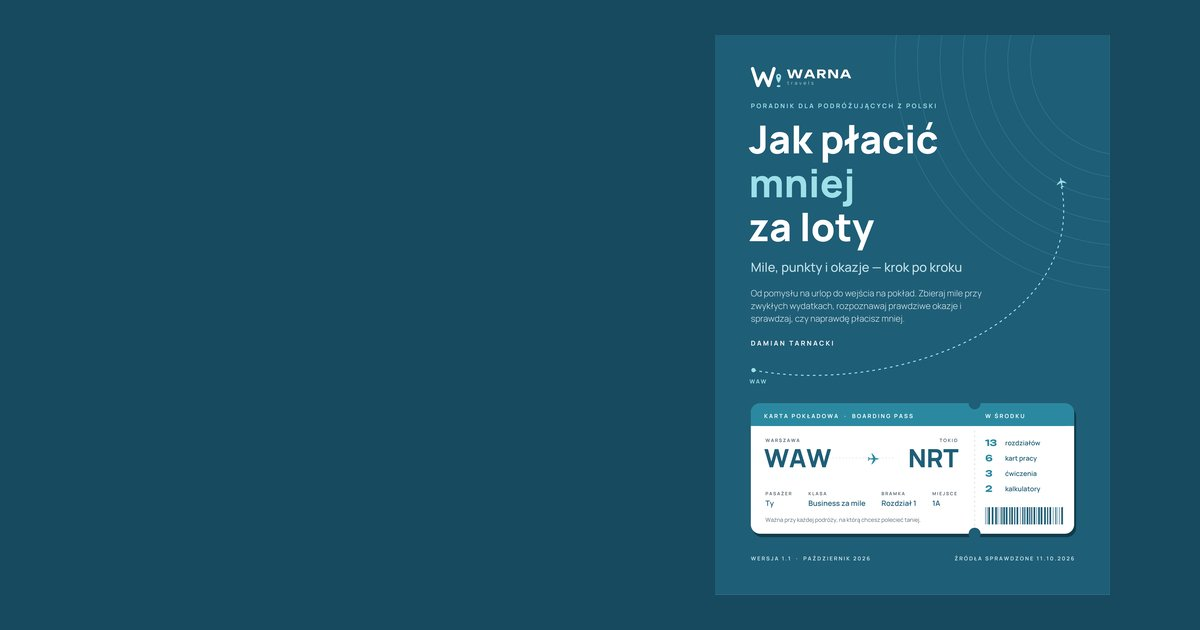
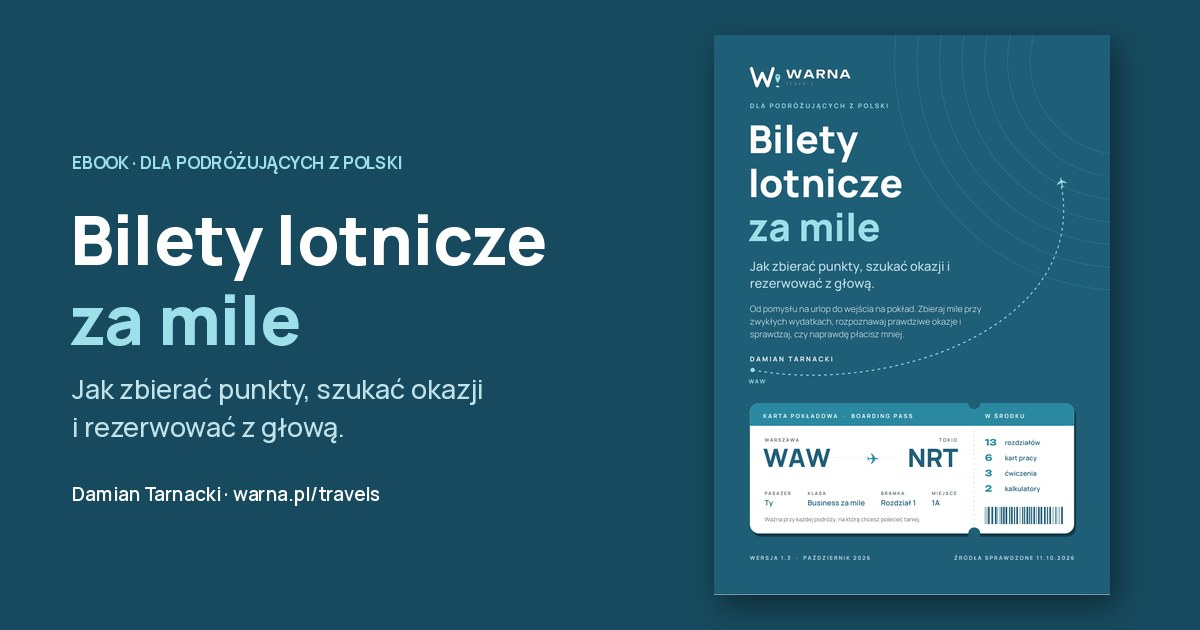
Nowy tytuł ebooka: Bilety lotnicze za mile
Claude-Session: https://claude.ai/code/session_019VQgXPR5hEQKZbpgQv1d3L

diff --git a/index.html b/index.html
@@ -50,7 +50,7 @@
     </article>
     <article class="line travels">
       <div class="lockup"><svg xmlns="http://www.w3.org/2000/svg" viewBox="0 0 441.74 100.00" role="img" aria-label="WARNA travels"><g transform="translate(0.00 0.00) scale(1.0417) translate(-2 -2)"><rect x="2" y="2" width="96" height="96" rx="26" fill="#1F5F78"/><path d="M16 28 L30 72 L44 40 L58 72 L72 28" fill="none" stroke="#FFFFFF" stroke-width="9" stroke-linecap="round" stroke-linejoin="round"/><path d="M84 65.5 C81.62 63.50 77.20 54.66 77.20 48.20 A6.8 6.8 0 1 1 90.80 48.20 C90.80 54.66 86.38 63.50 84 65.5Z" fill="#9EE0EA"/><circle cx="84" cy="48.20" r="2.45" fill="#1F5F78"/><ellipse cx="84" cy="73.6" rx="5.2" ry="2.9" fill="#9EE0EA"/></g><path d="M59.19 -5.16H55.38L66.35 -44.00H79.20L65.82 0.00H50.16L37.43 -37.55H42.42L29.63 0.00H14.02L0.59 -44.00H13.49L24.46 -5.16L20.71 -5.22L33.50 -44.00H46.35Z M97.15 -8.45V-18.25H127.48V-8.45ZM120.56 -44.00 140.57 0.00H127.60L110.82 -38.84H114.34L97.50 0.00H84.54L104.54 -44.00Z M157.81 -24.76H173.83Q176.76 -24.76 178.41 -26.11Q180.05 -27.46 180.05 -29.86Q180.05 -32.33 178.41 -33.65Q176.76 -34.97 173.83 -34.97H156.11L161.57 -40.77V0.00H149.42V-44.00H175.53Q180.58 -44.00 184.33 -42.21Q188.09 -40.42 190.20 -37.28Q192.31 -34.14 192.31 -29.86Q192.31 -25.70 190.20 -22.53Q188.09 -19.36 184.33 -17.60Q180.58 -15.84 175.53 -15.84H157.81ZM164.38 -20.59H178.05L193.83 0.00H179.75Z M244.76 -8.51 241.00 -7.74V-44.00H252.79V0.00H237.48L212.08 -36.20L215.78 -36.96V0.00H203.98V-44.00H219.71Z M274.27 -8.45V-18.25H304.60V-8.45ZM297.67 -44.00 317.68 0.00H304.71L287.94 -38.84H291.46L274.62 0.00H261.65L281.66 -44.00Z" transform="translate(124.00 56.31)" fill="currentColor"/><path d="M9.47 0.00Q8.20 0.25 6.98 0.21Q5.75 0.18 4.79 -0.26Q3.83 -0.70 3.34 -1.64Q2.90 -2.48 2.87 -3.34Q2.84 -4.21 2.84 -5.31V-17.25H5.46V-5.44Q5.46 -4.62 5.48 -4.03Q5.50 -3.43 5.74 -3.01Q6.19 -2.24 7.17 -2.13Q8.15 -2.02 9.47 -2.21ZM0.25 -11.40V-13.50H9.47V-11.40Z M20.31 0.00V-13.50H22.64V-10.23L22.31 -10.65Q22.56 -11.30 22.96 -11.84Q23.36 -12.39 23.89 -12.74Q24.40 -13.11 25.03 -13.32Q25.66 -13.53 26.33 -13.57Q26.99 -13.61 27.60 -13.50V-11.05Q26.94 -11.23 26.13 -11.15Q25.32 -11.08 24.65 -10.64Q24.01 -10.23 23.64 -9.64Q23.27 -9.05 23.11 -8.33Q22.95 -7.61 22.95 -6.81V0.00Z M41.79 0.38Q40.29 0.38 39.28 -0.18Q38.26 -0.74 37.74 -1.66Q37.23 -2.58 37.23 -3.68Q37.23 -4.70 37.59 -5.47Q37.95 -6.25 38.66 -6.79Q39.38 -7.34 40.41 -7.68Q41.31 -7.94 42.45 -8.14Q43.59 -8.34 44.84 -8.51Q46.10 -8.69 47.34 -8.86L46.39 -8.34Q46.41 -9.93 45.72 -10.69Q45.03 -11.46 43.34 -11.46Q42.28 -11.46 41.39 -10.97Q40.50 -10.48 40.15 -9.34L37.71 -10.09Q38.21 -11.83 39.62 -12.85Q41.03 -13.88 43.36 -13.88Q45.18 -13.88 46.52 -13.26Q47.86 -12.64 48.49 -11.30Q48.81 -10.64 48.89 -9.90Q48.96 -9.16 48.96 -8.31V0.00H46.65V-3.09L47.10 -2.69Q46.26 -1.14 44.97 -0.38Q43.68 0.38 41.79 0.38ZM42.25 -1.76Q43.36 -1.76 44.16 -2.16Q44.96 -2.55 45.45 -3.16Q45.94 -3.78 46.09 -4.44Q46.30 -5.04 46.33 -5.79Q46.36 -6.54 46.36 -6.99L47.21 -6.68Q45.98 -6.49 44.96 -6.34Q43.95 -6.19 43.13 -6.04Q42.31 -5.90 41.68 -5.70Q41.14 -5.51 40.72 -5.25Q40.30 -4.99 40.06 -4.61Q39.81 -4.24 39.81 -3.70Q39.81 -3.18 40.08 -2.73Q40.34 -2.29 40.88 -2.03Q41.41 -1.76 42.25 -1.76Z M63.86 0.00 58.96 -13.50H61.60L65.19 -3.28L68.78 -13.50H71.41L66.51 0.00Z M87.65 0.38Q85.64 0.38 84.12 -0.51Q82.60 -1.39 81.76 -2.97Q80.91 -4.55 80.91 -6.64Q80.91 -8.85 81.74 -10.48Q82.58 -12.10 84.06 -12.99Q85.55 -13.88 87.53 -13.88Q89.59 -13.88 91.04 -12.92Q92.49 -11.96 93.21 -10.20Q93.93 -8.44 93.78 -6.01H91.16V-6.96Q91.14 -9.31 90.27 -10.44Q89.40 -11.56 87.63 -11.56Q85.66 -11.56 84.68 -10.32Q83.69 -9.09 83.69 -6.75Q83.69 -4.53 84.68 -3.31Q85.66 -2.09 87.53 -2.09Q88.75 -2.09 89.64 -2.64Q90.54 -3.20 91.04 -4.24L93.60 -3.43Q92.81 -1.61 91.21 -0.62Q89.61 0.38 87.65 0.38ZM82.84 -6.01V-8.05H92.48V-6.01Z M104.83 0.00V-18.38H107.44V0.00Z M124.35 0.36Q121.89 0.36 120.34 -0.72Q118.79 -1.81 118.44 -3.79L121.11 -4.20Q121.36 -3.15 122.27 -2.54Q123.18 -1.94 124.53 -1.94Q125.75 -1.94 126.44 -2.44Q127.14 -2.94 127.14 -3.81Q127.14 -4.33 126.89 -4.64Q126.65 -4.96 125.88 -5.25Q125.10 -5.54 123.51 -5.96Q121.78 -6.41 120.76 -6.93Q119.74 -7.45 119.31 -8.14Q118.88 -8.84 118.88 -9.83Q118.88 -11.05 119.53 -11.96Q120.18 -12.88 121.36 -13.38Q122.54 -13.88 124.13 -13.88Q125.68 -13.88 126.89 -13.39Q128.10 -12.90 128.85 -12.01Q129.60 -11.11 129.75 -9.91L127.08 -9.43Q126.94 -10.40 126.16 -10.96Q125.39 -11.53 124.15 -11.58Q122.96 -11.62 122.23 -11.18Q121.49 -10.74 121.49 -9.96Q121.49 -9.51 121.77 -9.20Q122.05 -8.89 122.86 -8.60Q123.68 -8.31 125.26 -7.91Q126.96 -7.48 127.96 -6.94Q128.96 -6.41 129.39 -5.68Q129.83 -4.95 129.83 -3.91Q129.83 -1.91 128.37 -0.78Q126.91 0.36 124.35 0.36Z" transform="translate(126.00 87.69)" class="desc" fill="#1F5F78"/></svg></div>
-      <p>Weekendowe wyjazdy bez przepłacania. Wkrótce premiera ebooka „Jak płacić mniej za loty”. Jeden rozdział możesz dostać za darmo już teraz.</p>
+      <p>Weekendowe wyjazdy bez przepłacania. Wkrótce premiera ebooka „Bilety lotnicze za mile”. Jeden rozdział możesz dostać za darmo już teraz.</p>
       <ul class="links">
         <li><a class="cta" href="/travels/tansze-loty/"><span>Odbierz rozdział ebooka</span><svg viewBox="0 0 24 24" aria-hidden="true"><path d="M5 12h13m-5-6 6 6-6 6" fill="none" stroke="currentColor" stroke-width="2.2" stroke-linecap="round" stroke-linejoin="round"/></svg></a></li>
       </ul>

diff --git a/travels/tansze-loty/index.html b/travels/tansze-loty/index.html
@@ -3,11 +3,11 @@
 <head>
 <meta charset="utf-8">
 <meta name="viewport" content="width=device-width, initial-scale=1">
-<title>Jak płacić mniej za loty · ebook · WARNA travels</title>
+<title>Bilety lotnicze za mile · ebook · WARNA travels</title>
 <meta name="description" content="Ebook o kupowaniu lotów za mile i łapaniu okazji, dla podróżujących z Polski. 13 rozdziałów, karty pracy i kalkulator. Damian Tarnacki.">
 <meta property="og:type" content="product">
 <meta property="og:locale" content="pl_PL">
-<meta property="og:title" content="Jak płacić mniej za loty: mile, punkty i okazje">
+<meta property="og:title" content="Bilety lotnicze za mile: jak zbierać punkty, szukać okazji i rezerwować z głową">
 <meta property="og:description" content="Od pomysłu na urlop do wejścia na pokład. Ebook dla podróżujących z Polski.">
 <meta property="og:image" content="https://warna.pl/travels/tansze-loty/assets/og.jpg">
 <meta property="og:url" content="https://warna.pl/travels/tansze-loty/">
@@ -208,8 +208,8 @@ footer p{margin:0}
     <div class="hero-grid">
       <div>
         <span class="eyebrow">Ebook dla podróżujących z Polski</span>
-        <h1>Jak płacić <em>mniej</em> za loty</h1>
-        <p class="lead">Mile, punkty i okazje krok po kroku. Od pomysłu na urlop do wejścia na pokład: zbieraj mile przy zwykłych wydatkach, rozpoznawaj prawdziwe okazje i sprawdzaj, czy naprawdę płacisz mniej.</p>
+        <h1>Bilety lotnicze <em>za&nbsp;mile</em></h1>
+        <p class="lead">Jak zbierać punkty, szukać okazji i rezerwować z głową. Od pomysłu na urlop do wejścia na pokład: zbieraj mile przy zwykłych wydatkach, rozpoznawaj prawdziwe okazje i sprawdzaj, czy naprawdę płacisz mniej.</p>
         <div class="buy">
           <a class="btn btn-primary" href="#zapisy">Odbierz darmowy rozdział</a>
           <p class="buy-note">Zapisz się przed premierą i kup ebooka taniej na starcie.</p>
@@ -220,7 +220,7 @@ footer p{margin:0}
           <li>Źródła sprawdzone 11.10.2026</li>
         </ul>
       </div>
-      <img class="cover" src="assets/okladka.jpg" width="720" height="1018" alt="Okładka ebooka „Jak płacić mniej za loty. Mile, punkty i okazje krok po kroku”, Damian Tarnacki">
+      <img class="cover" src="assets/okladka.jpg" width="720" height="1019" alt="Okładka ebooka „Bilety lotnicze za mile. Jak zbierać punkty, szukać okazji i rezerwować z głową”, Damian Tarnacki">
     </div>
   </div>
 </header>
@@ -406,7 +406,7 @@ footer p{margin:0}
           </div>
           <label class="consent">
             <input id="wl-consent" name="consent" type="checkbox" required>
-            <span>Chcę dostać rozdział 3 i maile o premierze ebooka „Jak płacić mniej za loty” od Damiana Tarnackiego (WARNA Damian Tarnacki). Zgodę mogę wycofać w każdej chwili linkiem w mailu. Szczegóły w <a href="polityka-prywatnosci.html">polityce prywatności</a>.</span>
+            <span>Chcę dostać rozdział 3 i maile o premierze ebooka „Bilety lotnicze za mile” od Damiana Tarnackiego (WARNA Damian Tarnacki). Zgodę mogę wycofać w każdej chwili linkiem w mailu. Szczegóły w <a href="polityka-prywatnosci.html">polityce prywatności</a>.</span>
           </label>
           <button class="btn" type="submit">Wyślij mi rozdział</button>
         </form>

diff --git a/travels/tansze-loty/polityka-prywatnosci.html b/travels/tansze-loty/polityka-prywatnosci.html
@@ -3,7 +3,7 @@
 <head>
 <meta charset="utf-8">
 <meta name="viewport" content="width=device-width, initial-scale=1">
-<title>Polityka prywatności · Jak płacić mniej za loty · WARNA travels</title>
+<title>Polityka prywatności · Bilety lotnicze za mile · WARNA travels</title>
 <meta name="robots" content="noindex">
 <link rel="icon" type="image/svg+xml" href="assets/emblemat-travels.svg">
 <style>
@@ -28,7 +28,7 @@ a{color:var(--petrol)}
 <header><div class="wrap"><a href="./"><img src="assets/poziomy-travels-negatyw.svg" alt="WARNA travels" width="151" height="34"></a></div></header>
 <main class="wrap">
   <h1>Polityka prywatności</h1>
-  <p class="meta">Lista osób zainteresowanych ebookiem „Jak płacić mniej za loty”</p>
+  <p class="meta">Lista osób zainteresowanych ebookiem „Bilety lotnicze za mile”</p>
 
   <h2>Kto przetwarza Twoje dane</h2>
   <p>Administratorem danych jest Damian Tarnacki, prowadzący działalność gospodarczą pod firmą WARNA Damian Tarnacki. WARNA travels to nazwa tej strony i ebooka, nie osobny podmiot. W sprawach danych osobowych napisz na <a href="mailto:damian@warna.pl">damian@warna.pl</a>.</p>
